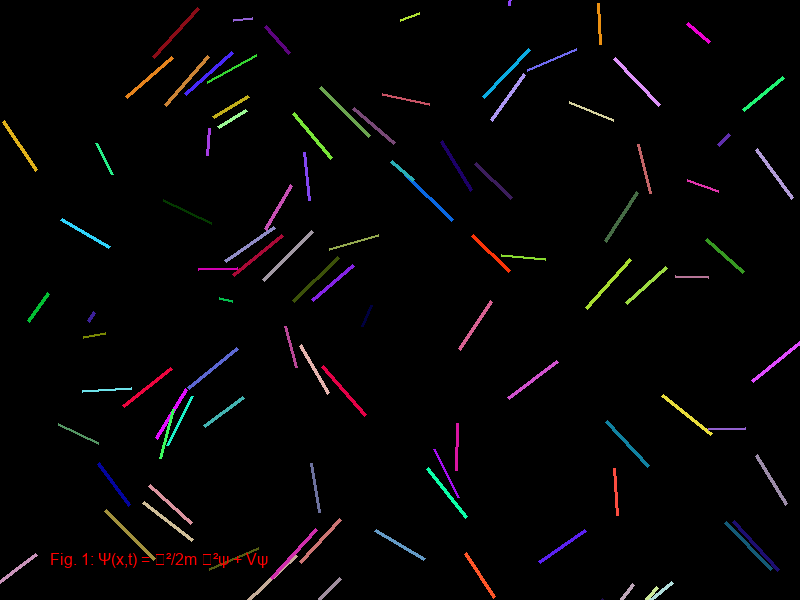
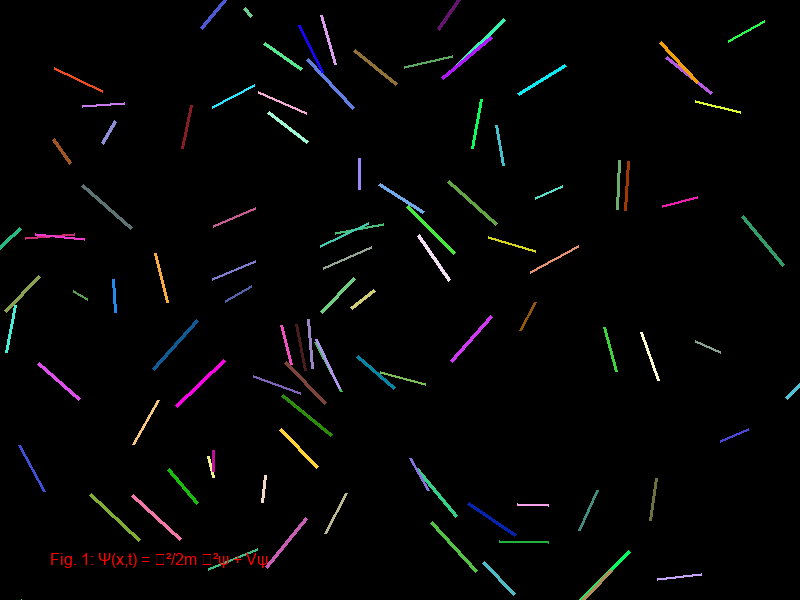
Добавил парсер NASA

diff --git a/handlers/commands.py b/handlers/commands.py
@@ -5,6 +5,7 @@ from generators.visual import generate_pseudoscience_chart
 from generators.text import generate_thought
 from generators.chemical import generate_iupac_name
 from generators.getwikimg import get_random_wiki_image
+from generators.getnasaimg import get_nasa_eternal_image
 from utils.keyboards import get_main_keyboard, get_ghost_emoji_variants
 from utils.helpers import random_emojis
 from aiogram.types import FSInputFile
@@ -12,6 +13,15 @@ from aiogram.filters import Command
 from utils.decorators import log_activity
 import random
 import asyncio
+
+#Список для ботфазера
+# start - Пси и Хи
+# dadart - Порция из куста
+# eternaldada - Вечное сияние дада
+# horoscope - Предсказание из антиматери
+# feedback - Отправить сообщение в никуда
+# antimanual - Самоуничтожающаяся инструкция
+# help - Зачем это всё
 
 router = Router()
 user_state = UserState()
@@ -43,7 +53,7 @@ async def explosion(message: types.Message):
     await asyncio.sleep(3)
     await message.answer("Сюрприз! Взрыв был метафорой.")
 
-@router.message(F.text == "Искусство")
+@router.message(Command("dadart"))
 async def send_art(message: types.Message):
     media_url, title = await get_random_wiki_image()
     
@@ -123,3 +133,39 @@ async def cmd_chaos(message: types.Message, state: FSMContext):
     # Обработчик с дополнительными параметрами
     await state.update_data(chaos_level=10)
     await message.answer("Хаос активирован!")
+		
+@router.message(Command("eternaldada"))
+@log_activity
+async def send_cosmic_dada(message: types.Message):
+    # Получаем космический артефакт
+    media_url, cosmic_description = await get_nasa_eternal_image()
+    
+    # Генерируем абсурдные мета-данные
+    price = random.choice(["♾ кг звёздной пыли", f"{random.randint(1,100)} чёрных дыр"])
+    verdict = random.choice([
+        "Этот объект отрицает само понятие искусства",
+        "Галактический совет признал работу нелегитимной",
+        "Квантовая пена в восторге"
+    ])
+
+    try:
+        # Отправляем медиа с дада-интерпретацией
+        if media_url.endswith(('.mp4', '.webm')):
+            await message.answer_video(media_url, caption=cosmic_description[:1024])
+        else:
+            await message.answer_photo(
+                media_url,
+                f"⚡ АРТ-РЕЛИКТ №{random.randint(10**12, 10**18)}\n\n"
+                f"Оценочная стоимость: {price}\n"
+                f"Вердикт Совета Бессмертных: {verdict}\n\n"
+                f"<tg-spoiler>📜 {cosmic_description}</tg-spoiler>"
+            )
+
+    except Exception as e:
+        # Фолбэк с концептуальным объяснением
+        await message.answer(
+            "Космический вакуум поглотил артефакт\n\n"
+            "▫▫▫▫▫▫▫▫\n"
+            "Это и есть высшая форма искусства"
+        )
+        print(f"Квантовая ошибка: {str(e)}")

diff --git a/generators/getnasaimg.py b/generators/getnasaimg.py
@@ -1,0 +1,62 @@
+import requests
+import random
+from datetime import datetime, timedelta
+from config.settings import config
+
+FALLBACK_IMAGES = [
+    ("https://i.imgur.com/wgBhifK.jpeg", "Дадаистский коллаж (1920)"),
+    ("https://i.imgur.com/M3NZpUA.jpeg", "Абстрактная композиция"),
+    ("https://i.imgur.com/TUXzEH3.jpeg", "Революция форм")
+]
+
+async def get_nasa_eternal_image():
+    """Получает космическое изображение с метафизическим описанием"""
+    try:
+        if not config.NASA_API_KEY:
+            raise ValueError("NASA API ключ не найден")
+
+        # Генерируем случайную дату за последние 25 лет
+        random_date = datetime.now() - timedelta(days=random.randint(1, 25*365))
+        
+        params = {
+            "api_key": config.NASA_API_KEY,
+            "date": random_date.strftime("%Y-%m-%d"),
+            "hd": True  # Максимальное качество
+        }
+
+        response = requests.get(
+            "https://api.nasa.gov/planetary/apod",
+            params=params,
+            timeout=15
+        )
+
+        if response.status_code == 200:
+            data = response.json()
+            if data["media_type"] != "image":
+                return random.choice(FALLBACK_IMAGES)
+            
+            # Формируем "вечное" описание
+            title = data.get("title", "Космическая бездна")
+            explanation = data.get("explanation", "")
+            
+            eternal_phrases = [
+                "Этот свет шёл к тебе миллионы лет",
+                "Пыль взорвавшихся звёзд в твоих глазах",
+                "Застывший момент вечности",
+                "Свидетельство непостижимого"
+            ]
+            
+            description = (
+                f"🪐 {title}\n\n"
+                f"{random.choice(eternal_phrases)}\n"
+                f"▬▬▬\n"
+                f"{explanation[:150]}..."  # Обрезаем до первого абзаца
+            )
+
+            return data["hdurl"], description
+
+        return random.choice(FALLBACK_IMAGES)
+    
+    except Exception as e:
+        print(f"NASA API error: {str(e)}")
+        return random.choice(FALLBACK_IMAGES)

diff --git a/config/settings.py b/config/settings.py
@@ -11,6 +11,7 @@ class Settings(BaseSettings):
     BOT_TOKEN: str = Field(..., env="BOT_TOKEN")
     ADMIN_IDS: int = Field(..., env="ADMIN_IDS")
     IMGUR_CLIENT_ID: str = Field("", env="IMGUR_CLIENT_ID")
+    NASA_API_KEY: str = Field("", env="NASA_API_KEY")
     
     # Настройки логирования
     LOG_LEVEL: str = Field("INFO", env="LOG_LEVEL")

diff --git a/generators/chemical.py b/generators/chemical.py
@@ -8,5 +8,5 @@ def generate_iupac_name() -> str:
         generator = InorganicGenerator()
     
     name, formula = generator.generate()
-    return f"🧪 {name} ({formula})"
+    return f"{name} ({formula})"
 		
